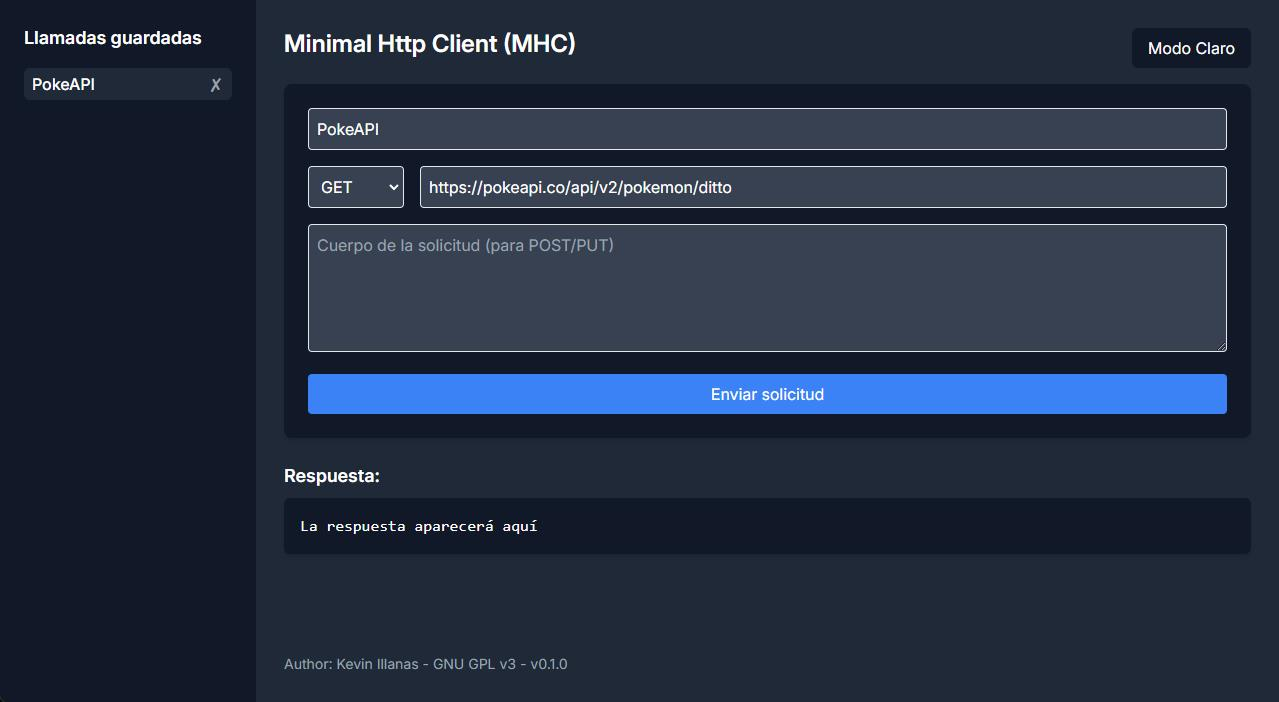
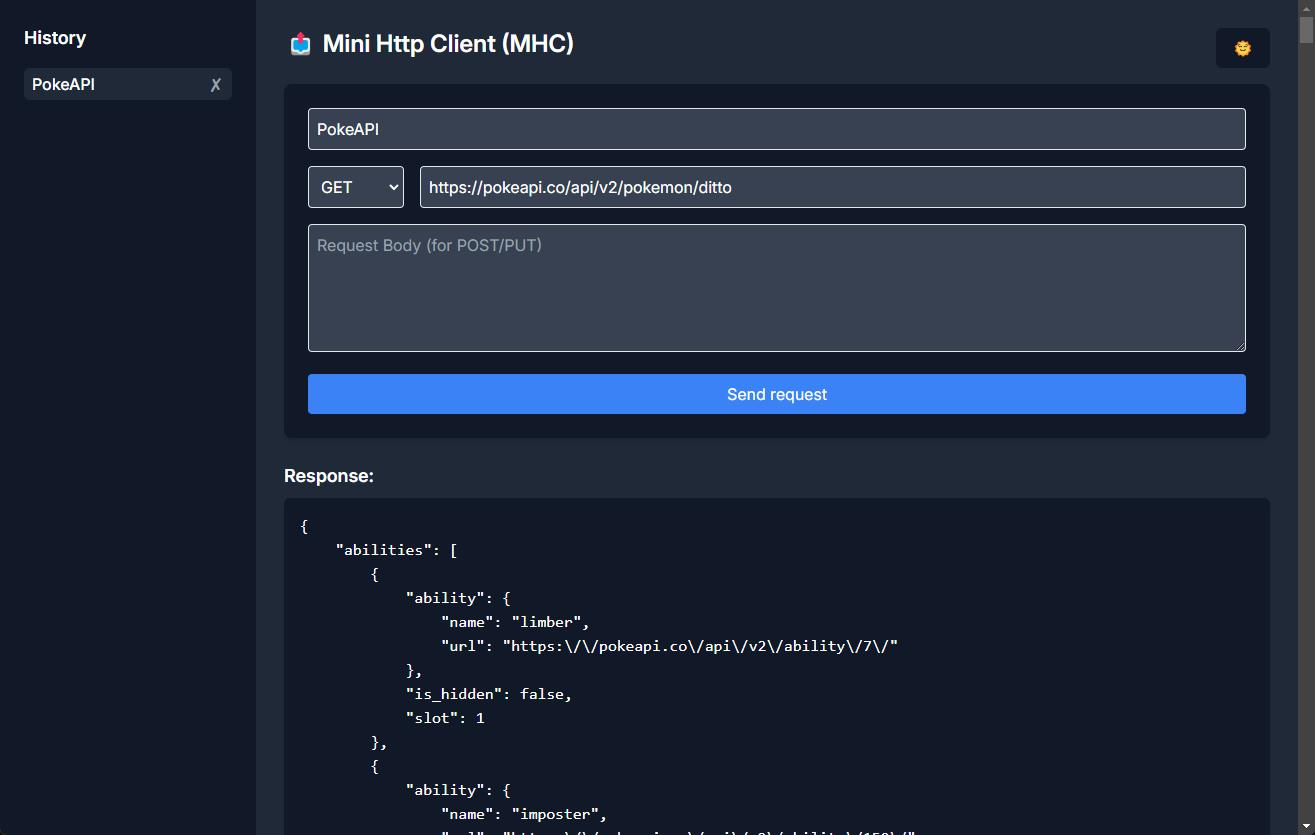
CHANGE: Mofify images

diff --git a/mhc.php b/mhc.php
@@ -135,7 +135,7 @@ class HttpManager
         <main class="flex flex-col flex-1 p-7 dark:bg-gray-800">
             <div class="flex justify-between mb-4">
                 <h1 class="text-2xl font-semibold dark:text-white">📤 Mini Http Client (MHC)</h1>
-                <button id="darkModeToggle" class="bg-gray-200 dark:bg-gray-900 text-black dark:text-white px-4 py-2 rounded-md">Modo Oscuro</button>
+                <button id="darkModeToggle" class="bg-gray-200 dark:bg-gray-900 text-black dark:text-white px-4 py-2 rounded-md">🌚</button>
             </div>
             <form id="httpForm" method="POST" action="" class="bg-white dark:bg-gray-900 p-6 rounded-lg shadow-md space-y-4">
                 <div class="flex space-x-4">
@@ -177,11 +177,11 @@ class HttpManager
         const updateDarkMode = (enabled) => {
             if (enabled) {
                 body.classList.add('dark');
-                toggleButton.textContent = 'Modo Claro';
+                toggleButton.textContent = '🌞';
                 localStorage.setItem('darkMode', 'enabled');
             } else {
                 body.classList.remove('dark');
-                toggleButton.textContent = 'Modo Oscuro';
+                toggleButton.textContent = '🌚';
                 localStorage.setItem('darkMode', 'disabled');
             }
         };
